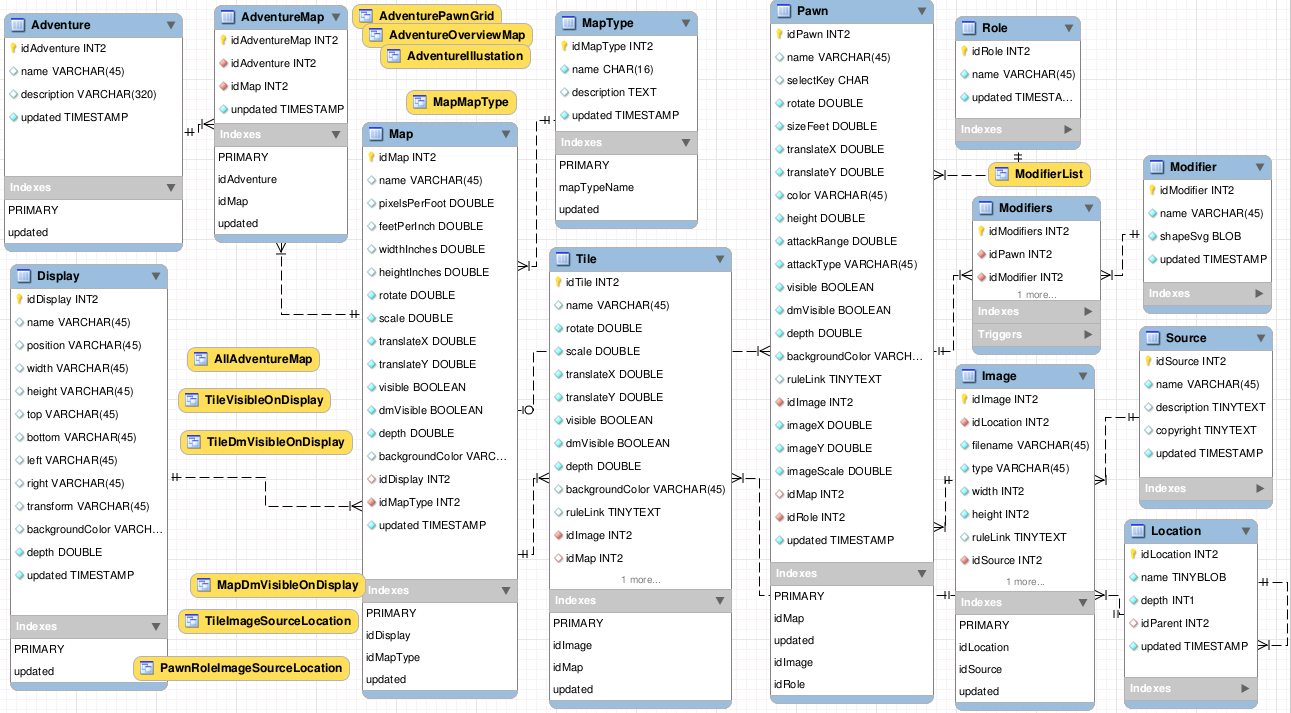
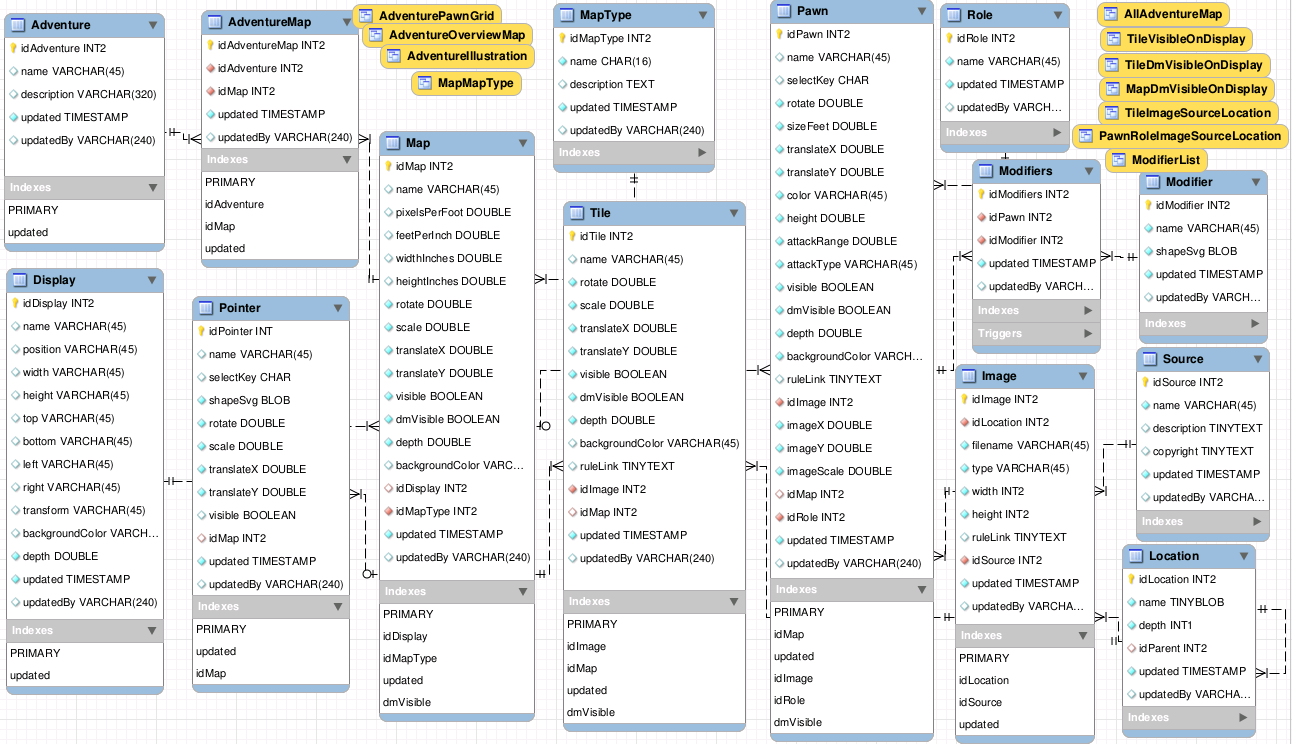
updated some docs

diff --git a/README.md b/README.md
@@ -18,7 +18,7 @@ but I wanted to use a newer rule system with lots of published content
 available (I do not have as much time to create worlds nowadays).  I decided on
 [Pathfinder][] and we started with the beginner box (along with a geeky friend
 of mine and his wife who were both willing to join me on this little
-midlife-geek-crisis).  As we moved on to the full rule system, I found that
+mid-geek-life crisis).  As we moved on to the full rule system, I found that
 every book was $50 for print, but like $10 for PDF.  As I like the idea of a
 table top map and pawns, but not the idea of paying a lot of money for them I
 wrote DragonberryPi.
@@ -242,6 +242,13 @@ and imageScale columns.  A Pawn is identified as being part of a group based on
 its like to the Role table.  The Modifiers table links a Pawn to a list of SVG
 tokens from the Modifier table which mark the status of a Mondifiersparticular
 Pawn.
+
+### Pointer table
+
+The Pointer table is similar to the Pawn table.  Again the Pointer can only be
+associated with one map.  The SVG for the pointer is stored in a blob and its
+visibility on a map is toggled with its select key.  Its positions controlled
+as whereever the mouse is when the select key is pressed.
 
 ## Adventure Prep
 
